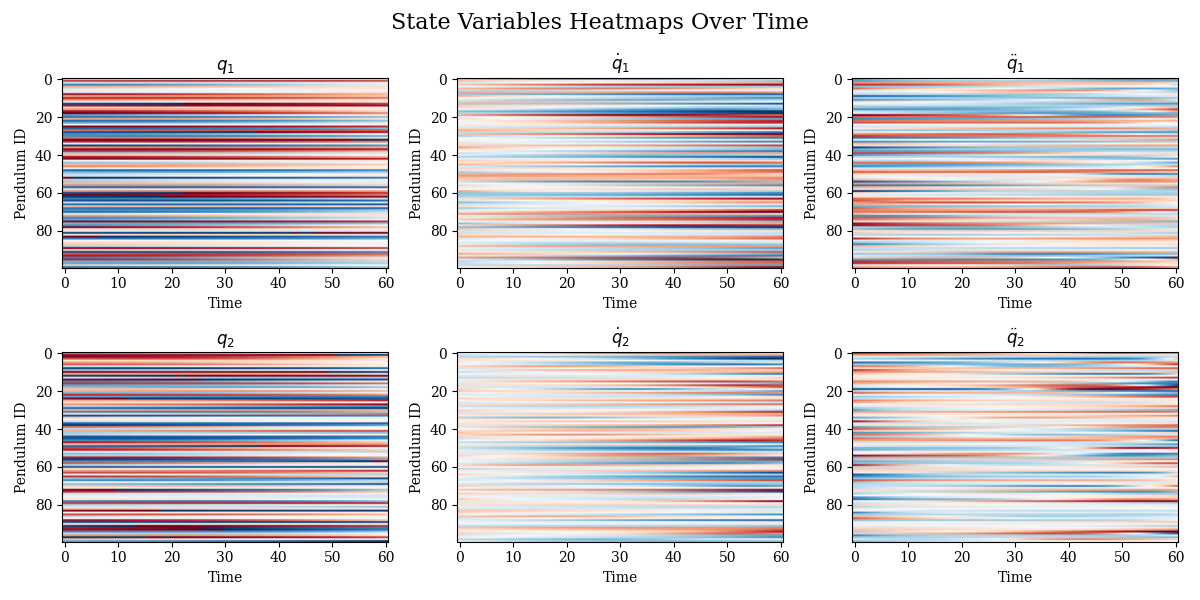
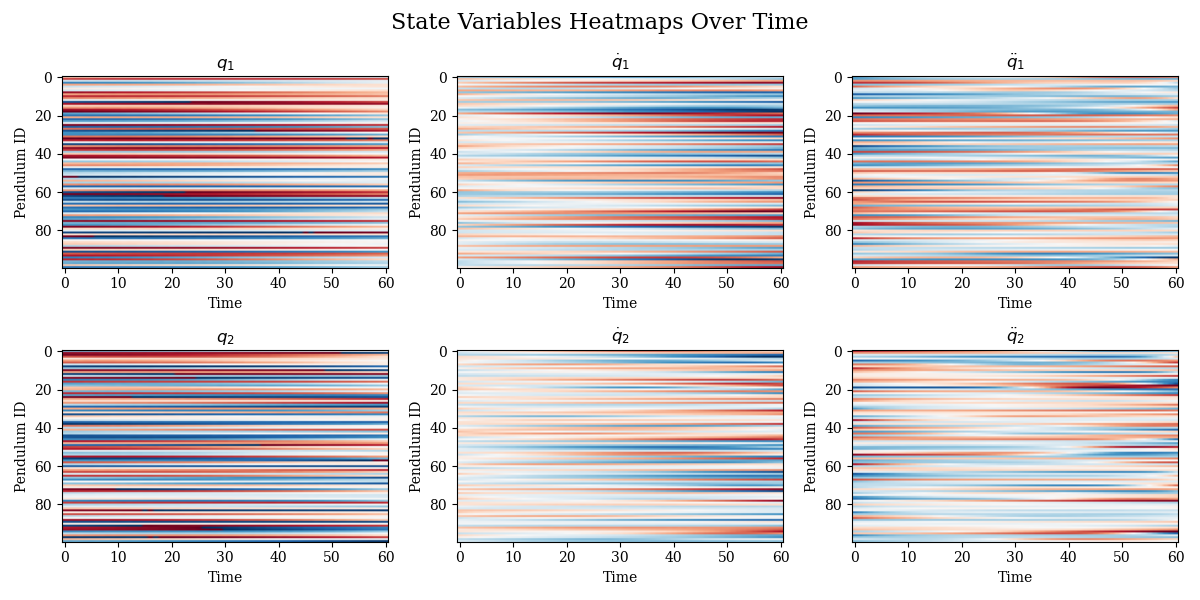
non so più cosa sia reale

diff --git a/branch2/train.py b/branch2/train.py
@@ -11,6 +11,7 @@ import torch.optim as optim
 from NNmodels import BaselineFNN, DeepFNN, LagrangianNN, ClassicODE, NeuralODE
 from models import DoublePendulum
 
+
 import os
 import json
 
@@ -18,20 +19,22 @@ from utils import generate_run_dir, history_plot, state_dot_step_plot, state_evo
 from metrics import energy_evolution_metric
 
 # Global constants
-MAX_EPOCHS = 70
+MAX_EPOCHS = 50
 BATCH_SIZE = 32
 LEARNING_RATE = 1e-3
-TEST_ITER = 10
+MIN_LR = 1e-5
+TEST_ITER = 100
 TRAIN_TEST_SPLIT = 0.8
+MAX_CHUNK_SIZE = 2
 
-ACTIVATION = 'SiLU'  # Options: 'ReLU', 'Tanh', 'SiLU', 'GELU', SELU, 'Softplus'
+ACTIVATION = 'Softplus'  # Options: 'ReLU', 'Tanh', 'SiLU', 'GELU', SELU, 'Softplus'
 
 SOLVER_NAME = 'ClassicODE'  # Options: 'ClassicODE', 'NeuralODE'
 FUNC_NAME = 'LagrangianNN'  # Options: 'BaselineFNN', 'DeepFNN', 'HamiltonianNN', 'LagrangianNN'
 
 FRICT_TYPE = 'nofrict'
 OPTIMIZER_NAME = 'AdamW' # Options: 'AdamW', 'Adam'
-LOSS = 'MSELoss'
+LOSS = 'MSELoss'  # Options: 'MSELoss', 'MAELoss'
 
 
 def train_step(func, dataloader, device, criterion, optimizer):
@@ -65,7 +68,6 @@ def train_evolution(solver, device, x, x0, T, criterion, optimizer):
     train_loss = criterion(x_pred, x)           # Loss
     
     train_loss.backward()                       # Backpropagation
-    
     optimizer.step()                            # Update weights        
 
     return train_loss.item()
@@ -104,7 +106,50 @@ def test_evolution(solver, device, x, x0, T, criterion):
 
         x_pred = solver(x0, T)
         test_loss = criterion(x_pred, x)
-    return test_loss.item(), x_pred.detach().cpu().numpy()
+    return test_loss.item(), x_pred
+
+
+def curricular_step(epoch, max_epochs, initial_chunk_size, final_chunk_size):
+    # logarithmically increase chunk size from initial to final over epochs
+    progress = epoch / max_epochs
+    chunk_size = initial_chunk_size * (final_chunk_size / initial_chunk_size) ** progress
+
+    return int(chunk_size)
+
+
+def get_batch(true_y, t, batch_size=32, chunk_size=20):
+    """
+    true_y: Your entire dataset of shape [Total_Time_Steps, State_Dim] (e.g., [1000, 2])
+    t: Your time tensor [0.0, 0.01, ..., 10.0]
+    """
+    total_time, total_pendulums, state_dim = true_y.shape
+
+    
+    # 1. Select random start points (indices)
+    # Ensure we don't pick an index too close to the end
+    s = torch.from_numpy(
+        np.random.choice(np.arange(total_time - chunk_size, dtype=np.int64), 
+                         batch_size, 
+                         replace=False)
+    )
+
+    b_idx = torch.from_numpy(np.random.choice(
+        np.arange(total_pendulums, dtype=np.int64), batch_size, replace=True))
+    
+    # 2. creating the batch of initial states
+    # Shape: [Batch_Size, State_Dim]
+    batch_y0 = true_y[s, b_idx, :]  
+    
+    # 3. Create the batch of "Ground Truth" trajectories to compare against
+    # We want to grab specific slices: s[0] to s[0]+chunk, s[1] to s[1]+chunk...
+    batch_y_target = torch.stack([true_y[si:si+chunk_size, bi, :] for si, bi in zip(s, b_idx)], dim=1)  # Shape: [Batch_Size, Chunk_Size, State_Dim]
+    
+    # 4. Create the 'relative' time points for the solver
+    # The solver typically needs t starting at 0 for the integration step
+    # We want to integrate from 0 to (chunk_size * dt)
+    batch_t = t[:chunk_size]  # Shape: [Chunk_Size] 
+    
+    return batch_y0, batch_t, batch_y_target
 
 
 def main():
@@ -153,12 +198,29 @@ def main():
     x_dot_dot = np.stack(x_dot_dot)     # Shape: (T, B, 2)
     energy = np.stack(energy)   # Shape: (T, B)
 
+    x_mean = np.mean(x, axis=(0, 1))  # we will use only x for plots
+    x_std = np.std(x, axis=(0, 1)) + 1e-6
+    x_dot_mean = np.mean(x_dot, axis=(0, 1))
+    x_dot_std = np.std(x_dot, axis=(0, 1)) + 1e-6
+    x_dot_dot_mean = np.mean(x_dot_dot, axis=(0, 1))
+    x_dot_dot_std = np.std(x_dot_dot, axis=(0, 1)) + 1e-6
+
+    # 2. Define helper functions (keep them for plotting later!)
+    def normalize(x, mean, std):
+        return (x - mean) / std
+
+    def denormalize(x, mean, std):
+        return x * std + mean
+
+
     # Convert to tensors
-    x_tensor = torch.tensor(x, dtype=torch.float32)             # Shape: (T, B, 4)
-    x_dot_dot_tensor = torch.tensor(x_dot_dot, dtype=torch.float32)     # Shape: (T, B, 2)
+    x_tensor = torch.tensor(normalize(x, x_mean, x_std), dtype=torch.float32)             # Shape: (T, B, 4)
+    x_dot_dot_tensor = torch.tensor(normalize(x_dot_dot, x_dot_dot_mean, x_dot_dot_std), dtype=torch.float32)     # Shape: (T, B, 2)
+
 
     # Time observations tensor
     T_obs = torch.tensor(df['time_step'].unique(), dtype=torch.float32)  # Shape: (T,)
+
 
     # Train-test split
     num_pendulums = x_tensor.shape[1]
@@ -173,6 +235,8 @@ def main():
     input_dim = len(x_cols)  # 4
     output_dim = len(x_dot_dot_cols)  # 2
 
+
+    
     # Select activation function
     match ACTIVATION:
         case 'ReLU':
@@ -226,7 +290,7 @@ def main():
                 'activation': ACTIVATION,  
             }
             
-            func = LagrangianNN(input_dim=input_dim, hidden_dim=hidden_dim).to(device)
+            func = LagrangianNN(input_dim=input_dim, hidden_dim=hidden_dim, activation=activation).to(device)
 
         case _:
             raise ValueError(f"Unknown FUNC_NAME: {FUNC_NAME}")
@@ -249,7 +313,7 @@ def main():
 
         case 'NeuralODE':
             # No dataloader needed
-            solver = NeuralODE(func, method='dopri5').to(device)
+            solver = NeuralODE(func, method='rk4').to(device)
 
             optimizer_parameters = solver.parameters()
         
@@ -265,6 +329,8 @@ def main():
     # Select Loss
     if LOSS == 'MSELoss':
         criterion = nn.MSELoss()
+    elif LOSS =='MAELoss':
+        criterion = nn.L1Loss()
     else:
         raise ValueError(f"Unknown LOSS: {LOSS}")
     
@@ -275,7 +341,7 @@ def main():
     test_losses = []
 
     # scheduler
-    scheduler = optim.lr_scheduler.CosineAnnealingLR(optimizer, T_max=MAX_EPOCHS, eta_min=1e-5)
+    scheduler = optim.lr_scheduler.CosineAnnealingLR(optimizer, T_max=MAX_EPOCHS, eta_min=MIN_LR)
 
     print("---")
     for epoch in range(MAX_EPOCHS+1):
@@ -287,7 +353,9 @@ def main():
                 train_loss = train_step(func, dataloader_train, device, criterion, optimizer)  
             case 'NeuralODE':
                 solver.train()
-                train_loss = train_evolution(solver, device, x_train, x_train[0, :, :], T_obs, criterion, optimizer)
+                curricular_step_size = curricular_step(epoch, MAX_EPOCHS, initial_chunk_size=2, final_chunk_size=MAX_CHUNK_SIZE)
+                batch_y0, batch_t, batch_y_target = get_batch(x_train, T_obs, batch_size=BATCH_SIZE, chunk_size=curricular_step_size)
+                train_loss = train_evolution(solver, device, batch_y_target, batch_y0, batch_t, criterion, optimizer)
         scheduler.step()
         
         if epoch % TEST_ITER == 0:
@@ -295,7 +363,9 @@ def main():
                 case 'ClassicODE':
                     test_loss, _ = test_step(func, dataloader_test, device, criterion)
                 case 'NeuralODE':
-                    test_loss, _ = test_evolution(solver, device, x_test, x_test[0, :, :], T_obs, criterion)
+                    curricular_step_size = curricular_step(epoch, MAX_EPOCHS, initial_chunk_size=2, final_chunk_size=MAX_CHUNK_SIZE)
+                    batch_y0, batch_t, batch_y_test = get_batch(x_test, T_obs, batch_size=BATCH_SIZE, chunk_size=curricular_step_size)
+                    test_loss, _ = test_evolution(solver, device, batch_y_test, batch_y0, batch_t, criterion)
 
         
             train_losses.append(train_loss)
@@ -320,14 +390,38 @@ def main():
         case 'ClassicODE':
             _, x_dot_pred = test_step(func, dataloader, device, criterion)
             x_dot_pred = x_dot_pred.reshape(x_dot.shape)
+            x_dot_pred = denormalize(x_dot_pred, x_dot_mean, x_dot_std)
 
-            
             state_dot_step_plot(x_dot, x_dot_pred, ids=ids, run_dir=run_dir, solver_name=SOLVER_NAME,func_name=FUNC_NAME, frict_type=FRICT_TYPE)
 
     # Metrics on state evolution
+    # Test on rolling window in time of size chunk_size
+
+    # match SOLVER_NAME:
+    #     case 'ClassicODE':
+    #         state_evolution_loss, x_pred = test_evolution(solver, device, x_tensor, x_tensor[0, :, :], T_obs, criterion)
+
+    #     case 'NeuralODE':
+    #         # moving window over time for each time t
+    #         predictions = []
+    #         x0 = x_tensor[0, :, :].clone().to(device)  # initial state
+    #         predictions.append(x0)  # initial state
+    #         for i in range(x_tensor.shape[0]-MAX_CHUNK_SIZE+1):
+    #             _, x_pred = test_evolution(solver, device, x_tensor[i:i+MAX_CHUNK_SIZE, : , :], x0, T_obs[:MAX_CHUNK_SIZE], criterion)
+    #             x0 = x_pred[1, :, :].detach().clone()  # last predicted state as initial for next window
+                
+    #             if i < x_tensor.shape[0]-MAX_CHUNK_SIZE:
+    #                 predictions.append(x_pred[1, :, :].detach().clone())  # take only the last predicted state for next window
+    #             else:
+    #                 for j in range(1, x_pred.shape[0]):
+    #                     predictions.append(x_pred[j, :, :].detach().clone())  # take all the predicted states in the last window
+                
+    #         x_pred = torch.stack(predictions, dim=0)
+    #         state_evolution_loss = criterion(x_pred, x_tensor.to(device)).item()
     state_evolution_loss, x_pred = test_evolution(solver, device, x_tensor, x_tensor[0, :, :], T_obs, criterion)
-    x_pred[:, :, :2] = round_to_pi(x_pred[:, :, :2])  # wrap angles to [-pi, pi]
     
+    x_pred = x_pred.detach().cpu().numpy()
+    x_pred = denormalize(x_pred, x_mean, x_std)
     print(f"State Evolution Loss (MSE): {state_evolution_loss:.5f}")
     state_evolution_plot(x, x_pred, ids=ids, run_dir=run_dir, solver_name=SOLVER_NAME, func_name=FUNC_NAME, frict_type=FRICT_TYPE)
 

diff --git a/branch2/NNmodels.py b/branch2/NNmodels.py
@@ -1,6 +1,6 @@
 import torch.nn as nn
 import torch
-from torchdiffeq import odeint_adjoint as odeint
+from torchdiffeq import odeint
 from torch.autograd import grad
 from torch.autograd.functional import jacobian
 
@@ -51,6 +51,7 @@ class BaselineFNN(nn.Module):
         self.output = nn.Linear(hidden_dim, out_dim)
         
     def forward(self, t, x):
+        
         x_dot = x[:, 2:]  # extract velocities
         # x: shape (B, 4)
         x = self.trig(x)
@@ -89,10 +90,6 @@ class DeepFNN(nn.Module):
     
 
 
-
-import torch
-import torch.nn as nn
-from torch.autograd import grad
 
 class LagrangianNN(nn.Module):
     def __init__(self, input_dim, hidden_dim, activation=nn.Softplus()):
@@ -207,19 +204,20 @@ class LagrangianNN(nn.Module):
             # H_vv * q_ddot + H_vq * q_dot = dL_dq
             # => H_vv * q_ddot = dL_dq - H_vq * q_dot
             
+            epsilon = 1e-4 * torch.eye(self.dof, device=x.device).unsqueeze(0)
+            H_vv = H_vv + epsilon
+
             # Compute RHS
             # H_vq is (B, D, D), q_dot is (B, D) -> need (B, D, 1) for matmul or use einsum
             term_2 = torch.einsum('bij,bj->bi', H_vq, q_dot)
             rhs = dL_dq - term_2
 
-            # 6. Solve for q_ddot using Pseudo-Inverse (pinv) for stability
-            # q_ddot = pinv(H_vv) @ rhs
-            H_vv_inv = torch.linalg.pinv(H_vv) 
-            q_ddot = torch.einsum('bij,bj->bi', H_vv_inv, rhs)
+            # 6. Solve for q_ddot using linalg solve for efficiency and stability
+
+            q_ddot = torch.linalg.solve(H_vv, rhs)
 
             # Return state derivative [q_dot, q_ddot]
             return torch.cat([q_dot, q_ddot], dim=1)
-
 
 
 class ClassicODE(nn.Module):
@@ -236,20 +234,19 @@ class ClassicODE(nn.Module):
         # starting from z0 over the times specified in t_span.
         return solver(self.func, z0, T = T, method=method)
 
-
 class NeuralODE(nn.Module):
-    def __init__(self, func, method='rk4'):
+    # 'dopri5' is too slow for random initialized Hamiltonian/Lagrangian networks
+    def __init__(self, func, method='rk4', rtol=1e-3, atol=1e-3):
         super(NeuralODE, self).__init__()
         self.func = func
         self.method = method
+        self.rtol = rtol
+        self.atol = atol
     
     def forward(self, z0, t_span):
-        # z0: initial state (tensor)
-        # t_span: times at which to evaluate the solution (tensor)
-        # method: ODE solver (e.g., 'dopri5', 'rk4', 'adams'). 'dopri5' is robust.
-        
-        # The odeint function integrates the system defined by self.func 
-        # starting from z0 over the times specified in t_span.
-        return odeint(self.func, z0, t_span, method=self.method)
-    
+        return odeint(self.func, z0, t_span, 
+                      method=self.method, 
+                      rtol=self.rtol, 
+                      atol=self.atol)
+
 

diff --git a/preprocessing.py b/preprocessing.py
@@ -207,7 +207,7 @@ def process_data(path:str,
     
     processed_df, discarded = energy_check(df)
     processed_df = add_white_noise(processed_df)
-    processed_df = round_to_pi(processed_df)
+    #processed_df = round_to_pi(processed_df)
 
 
     status_cols = ['q1', 'q1_dot', 'q1_dot_dot', 'q2', 'q2_dot', 'q2_dot_dot']
@@ -248,15 +248,26 @@ def process_data(path:str,
 def main():
     
 
+    # df_nof = process_data(path = 'double_pendulum_nofrict.csv', 
+    #                       raw_path= 'branch1/data_enhanced/raw/',
+    #                       processed_path= 'branch1/data_enhanced/processed/')
+    # df_lowf = process_data(path = 'double_pendulum_lowfrict.csv',
+    #                        raw_path= 'branch1/data_enhanced/raw/',
+    #                        processed_path= 'branch1/data_enhanced/processed/')
+    # df_highf = process_data(path = 'double_pendulum_highfrict.csv',
+    #                         raw_path= 'branch1/data_enhanced/raw/',
+    #                         processed_path= 'branch1/data_enhanced/processed/')
+    
+
     df_nof = process_data(path = 'double_pendulum_nofrict.csv', 
-                          raw_path= 'branch1/data_enhanced/raw/',
-                          processed_path= 'branch1/data_enhanced/processed/')
+                          raw_path= 'data/raw/',
+                          processed_path= 'data/processed/')
     df_lowf = process_data(path = 'double_pendulum_lowfrict.csv',
-                           raw_path= 'branch1/data_enhanced/raw/',
-                           processed_path= 'branch1/data_enhanced/processed/')
+                           raw_path= 'data/raw/',
+                           processed_path= 'data/processed/')
     df_highf = process_data(path = 'double_pendulum_highfrict.csv',
-                            raw_path= 'branch1/data_enhanced/raw/',
-                            processed_path= 'branch1/data_enhanced/processed/')
+                            raw_path= 'data/raw/',
+                            processed_path= 'data/processed/')
 
 if __name__ == '__main__':
     main()

diff --git a/data_inspection.py b/data_inspection.py
@@ -235,7 +235,7 @@ def show_example(path:str, id:int = 0, animate: bool = False):
         simulator.draw_simulation(pendulum, pendulum_data[['q1', 'q1_dot', 'q2', 'q2_dot']].to_numpy())
 
 def main():
-    example_id = 55
+    example_id = 17
     # Define the states
     cols = ['q1', 'q1_dot','q1_dot_dot', 'q2', 'q2_dot', 'q2_dot_dot']
     status_names = [r'$q_1$', r'$\dot{q}_1$', r'$\ddot{q}_1$', r'$q_2$', r'$\dot{q}_2$',  r'$\ddot{q}_2$']
@@ -253,7 +253,7 @@ def main():
 
         show_heatmap(df, cols, names = status_names,  vlim=vlim, file_name=f'plots/{f.split(".")[0]}_heatmap')
     
-    show_example('data/processed/double_pendulum_lowfrict.csv', id=example_id, animate=True)
+    show_example('data/processed/double_pendulum_nofrict.csv', id=example_id, animate=True)
 
 if __name__ == '__main__':
     main()
